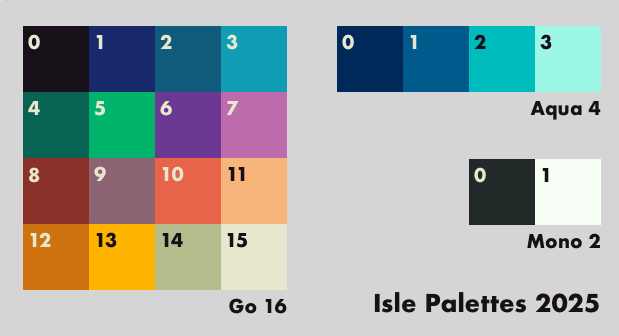
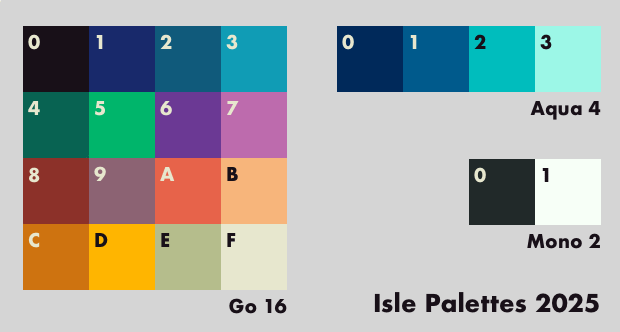
Minor fixes and improvements (Feb 2026)
* Add Bluesky link and forthcoming chapters
* Use 20 MHz system clock consistently
* Use hex palette references to match assembler
* Assorted minor comment fixes

diff --git a/hardware/tests/book/ch03.py b/hardware/tests/book/ch03.py
@@ -10,8 +10,9 @@ from cocotb.triggers import RisingEdge, Timer
 from tests.helpers import assert_coord, assert_pixel, zero_vram
 
 # clock frequencies
-SYS_TIME = 25  # 25 ns is 40 MHz
-PIX_TIME = 50  # 50 ns is 20 MHz
+# NB. system clock needs to be faster, otherwise drawing isn't done in time for tests
+SYS_TIME = 10  # 10 ns is 100 MHz
+PIX_TIME = 20  # 20 ns is 50 MHz
 
 # 672x384 (DISPLAY_MODE=3)
 DISP_LINE   = 825  # horizontal line including blanking

diff --git a/hardware/tests/book/ch04.py b/hardware/tests/book/ch04.py
@@ -10,8 +10,8 @@ from cocotb.triggers import RisingEdge, Timer
 from tests.helpers import assert_coord, assert_pixel
 
 # clock frequencies
-SYS_TIME = 25  # 25 ns is 40 MHz
-PIX_TIME = 50  # 50 ns is 20 MHz
+SYS_TIME = 50  # 50 ns is 20 MHz
+PIX_TIME = 20  # 20 ns is 50 MHz
 
 # 672x384 (DISPLAY_MODE=3)
 DISP_LINE   = 825  # horizontal line including blanking

diff --git a/hardware/tests/book/ch05.py b/hardware/tests/book/ch05.py
@@ -10,7 +10,7 @@ from cocotb.triggers import RisingEdge, Timer
 from tests.helpers import assert_coord, assert_pixel
 
 # clock frequency
-SYS_TIME = 40  # 40 ns is 25 MHz
+SYS_TIME = 50  # 50 ns is 20 MHz
 PIX_TIME = 20  # 20 ns is 50 MHz
 
 # 672x384 (DISPLAY_MODE=3)

diff --git a/hardware/tests/mem/vram.py b/hardware/tests/mem/vram.py
@@ -10,7 +10,7 @@ from cocotb.triggers import RisingEdge
 from tests.helpers import zero_vram
 
 # clock frequencies
-SYS_TIME = 40  # 40 ns is 25 MHz
+SYS_TIME = 50  # 20 ns is 20 MHz
 PIX_TIME = 20  # 20 ns is 50 MHz
 
 # vram write data for sys port word test

diff --git a/hardware/tests/mem/clut.py b/hardware/tests/mem/clut.py
@@ -10,7 +10,7 @@ from cocotb.triggers import RisingEdge
 from tests.helpers import zero_memory
 
 # clock frequencies
-SYS_TIME = 40  # 40 ns is 25 MHz
+SYS_TIME = 50  # 50 ns is 20 MHz
 PIX_TIME = 20  # 20 ns is 50 MHz
 
 # CLUT test data (for writing)

diff --git a/README.md b/README.md
@@ -4,20 +4,22 @@ Welcome to Isle. Isle is a simple, modern computer — an open design that encou
 
 Learn more and get started with the Project F blog: [Isle FPGA Computer](http://projectf.io/isle/fpga-computer.html)
 
-Follow [@WillFlux@mastodon.social](https://mastodon.social/@WillFlux) for updates.
+Follow [@WillFlux@mastodon.social](https://mastodon.social/@WillFlux) or [@willflux.bsky.social](https://willflux.bsky.social) for updates.
 
 ## Building Isle Book
 
-As I build each new component, I introduce it in its own chapter with a dedicated Verilog design.
+Each major component gets its own chapter with a dedicated Verilog design and software.
 
 * Chapter 1 - **Display**: [Design](hardware/book/ch01) - [Blog](http://projectf.io/isle/display.html)
 * Chapter 2 - **Bitmap Graphics**: [Design](hardware/book/ch02) - [Blog](http://projectf.io/isle/bitmap-graphics.html)
 * Chapter 3 - **2D Drawing**: [Design](hardware/book/ch03) - [Blog](http://projectf.io/isle/2d-drawing.html)
 * Chapter 4 - **Text Mode**: [Design](hardware/book/ch04) - [Blog](http://projectf.io/isle/text-mode.html)
 * Chapter 5 - **RISC-V CPU**: [Design](hardware/book/ch05) - [Software](software/book/ch05) - [Blog](http://projectf.io/isle/riscv-cpu.html)
-* Chapter 6 - Input (forthcoming)
+* Chapter 6 - Input Output (forthcoming)
+* Chapter 7 - Debug Monitor (forthcoming)
+* Chapter 8 - Programmable Graphics (forthcoming)
 
-For build instructions see [dev boards](boards). Isle supports Lattice ECP5, Xilinx XC7, and Verilator/SDL simulation on Linux/Mac/Windows.
+For hardware build instructions see [dev boards](boards). For software build instructions see [Isle Software Build](https://projectf.io/isle/software-build.html).
 
 ## Repo Layout
 

diff --git a/hardware/book/README.md b/hardware/book/README.md
@@ -7,7 +7,9 @@ As I build each new component, I introduce it in its own chapter with a dedicate
 * Chapter 3 - **2D Drawing**: [Design](ch03) - [Blog](http://projectf.io/isle/2d-drawing.html)
 * Chapter 4 - **Text Mode**: [Design](ch04) - [Blog](http://projectf.io/isle/text-mode.html)
 * Chapter 5 - **RISC-V CPU**: [Design](ch05) - [Blog](http://projectf.io/isle/riscv-cpu.html)
-* Chapter 6 - Input (forthcoming)
+* Chapter 6 - Input Output (forthcoming)
+* Chapter 7 - Debug Monitor (forthcoming)
+* Chapter 8 - Programmable Graphics (forthcoming)
 
 For build instructions see [dev boards](../../boards/). Isle supports Lattice ECP5, Xilinx XC7, and Verilator/SDL simulation on Linux/Mac/Windows.
 

diff --git a/boards/README.md b/boards/README.md
@@ -1,6 +1,8 @@
 # Isle Dev Boards
 
-Isle currently targets three dev boards and one simulator. Learn more about board support from [Isle Dev Boards](http://projectf.io/isle/dev-boards.html) blog post.
+Isle currently targets three dev boards and one simulator (no dev board required). Learn more about board support from [Isle Dev Boards](http://projectf.io/isle/dev-boards.html) blog post.
+
+Select your board for build instructions:
 
 * Machdyne [Lakritz](lakritz) (Lattice ECP5)
 * Digilent [Nexys Video](nexys_video) (Xilinx XC7)

diff --git a/software/README.md b/software/README.md
@@ -5,4 +5,6 @@
 Each chapter, after we introduce the CPU, has its own software. There's a separate section for [book hardware](../hardware/).
 
 * Chapter 5 - **RISC-V CPU**: [Software](book/ch05) - [Blog](http://projectf.io/isle/riscv-cpu.html)
-* Chapter 6 - Input (forthcoming)
+* Chapter 6 - Input Output (forthcoming)
+* Chapter 7 - Debug Monitor (forthcoming)
+* Chapter 8 - Programmable Graphics (forthcoming)

diff --git a/hardware/docs/display.md b/hardware/docs/display.md
@@ -44,7 +44,7 @@ The display module includes five modes (pixel clock):
 0 -  640 x 480 60 Hz (25.2 MHz)
 1 - 1024 x 768 60 Hz (65 MHz)
 2 - 1366 x 768 60 Hz (72 MHz)
-3 -  672 x 384 60 Hz (25 MHz)
+3 -  672 x 384 60 Hz (20 MHz)
 4 - 1280 x 720 60 Hz (74.25 MHz)
 ```
 
